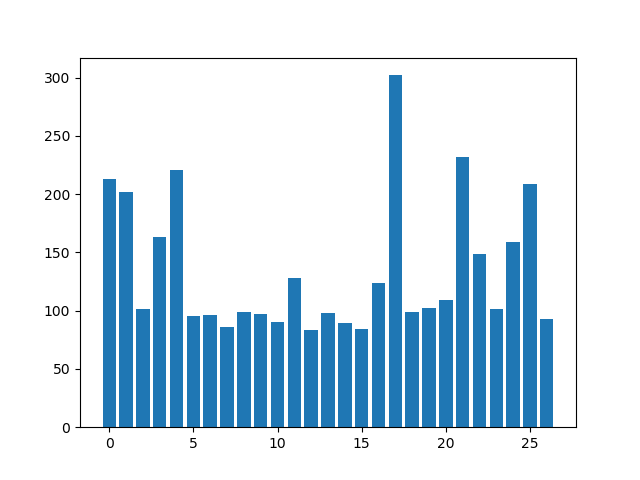
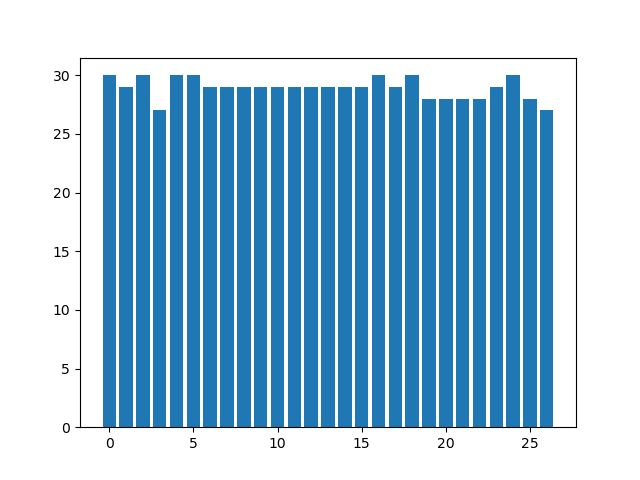
ISSUE RESOLVED:Removed problem of duplicate imgs in annot

diff --git a/annotations/parser.py b/annotations/parser.py
@@ -8,30 +8,53 @@ test_file  = 'flickr_logos_27_dataset_test_set_annotation_cropped.txt'
 ## Load data from the annotation file
 trdata = np.loadtxt(train_file, delimiter=',', dtype=str)
 trclasses = trdata[:, -1] # last col has data regarding the classes
-
+imgtr = trdata[:,0]
 tedata = np.loadtxt(test_file,delimiter=',',dtype=str)
 teclasses = tedata[:, -1]
+imgte = tedata[:,0]
 
 
 ## Load the list mapping index to name
 cat_index = ["Adidas","Apple","BMW","Citroen","Cocacola","DHL","Fedex","Ferrari","Ford","Google","HP","Heineken","Intel","McDonalds","Mini","Nbc","Nike","Pepsi","Porsche","Puma","RedBull","Sprite","Starbucks","Texaco","Unicef","Vodafone","Yahoo"]
-
+cnt = 0
+## avoid recounting
+vis = {}
 
 ## Count the distribution
 trdict = {}
 tedict = {}
-for i in trclasses:
-   if int(i) not in trdict:
-	   trdict[int(i)] = 1
+for i in range(0,len(trclasses)):
+   cindex = int(trclasses[i])
+   name = imgtr[i]
+   if name in vis:
+	   continue
+   vis[name] = 1
+   if int(cindex) not in trdict:
+	   trdict[cindex] = 1
    else:
-	   trdict[int(i)] = trdict[int(i)]+1
+	   trdict[cindex] = trdict[cindex]+1
 
-for i in teclasses:
-   if int(i) not in tedict:
-	   tedict[int(i)] = 1
+for i in range(0,len(teclasses)):
+   cindex = int(teclasses[i])
+   name = imgte[i]
+   if name in vis:
+	   continue
+   vis[name] = 1
+   if cindex not in tedict:
+	   tedict[cindex] = 1
    else:
-	   tedict[int(i)] = tedict[int(i)]+1
+	   tedict[cindex] = tedict[cindex]+1
 
+## Print freq by name
+sum = 0
+for i in trdict:
+	sum = sum + trdict[i]
+	print(cat_index[i],":",trdict[i])
+print("Total training images:",sum)
+sum = 0
+for i in tedict:
+	sum  = sum + tedict[i]
+print("Total Testing images:",sum)
 ##Plot the graph
 plt.bar(*zip(*tedict.items()))
 plt.show()
